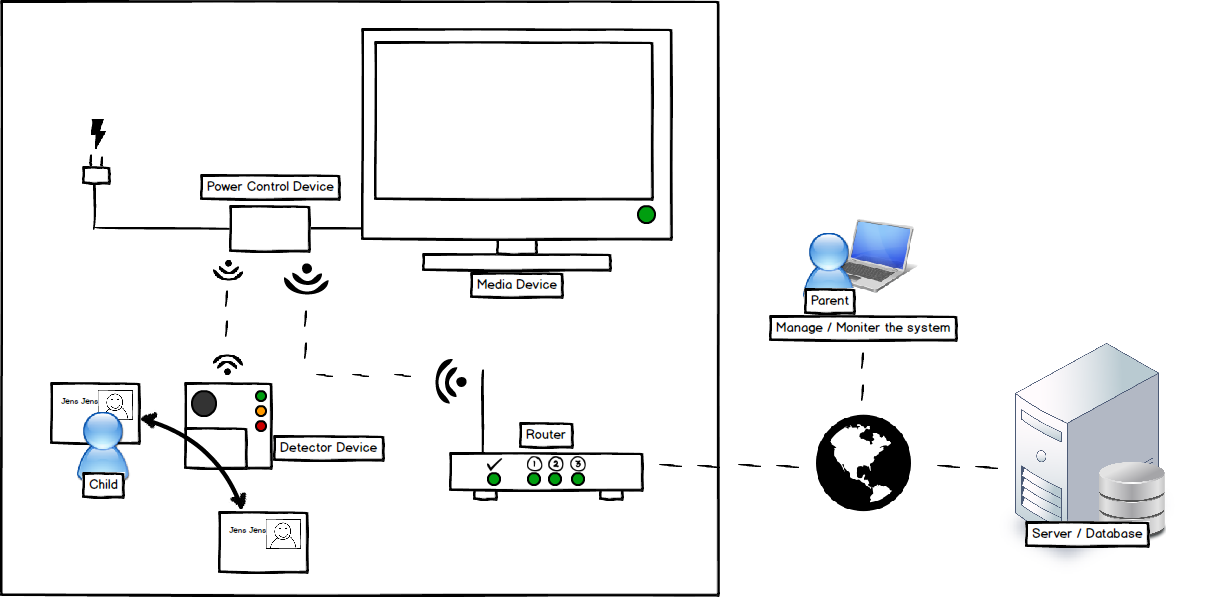
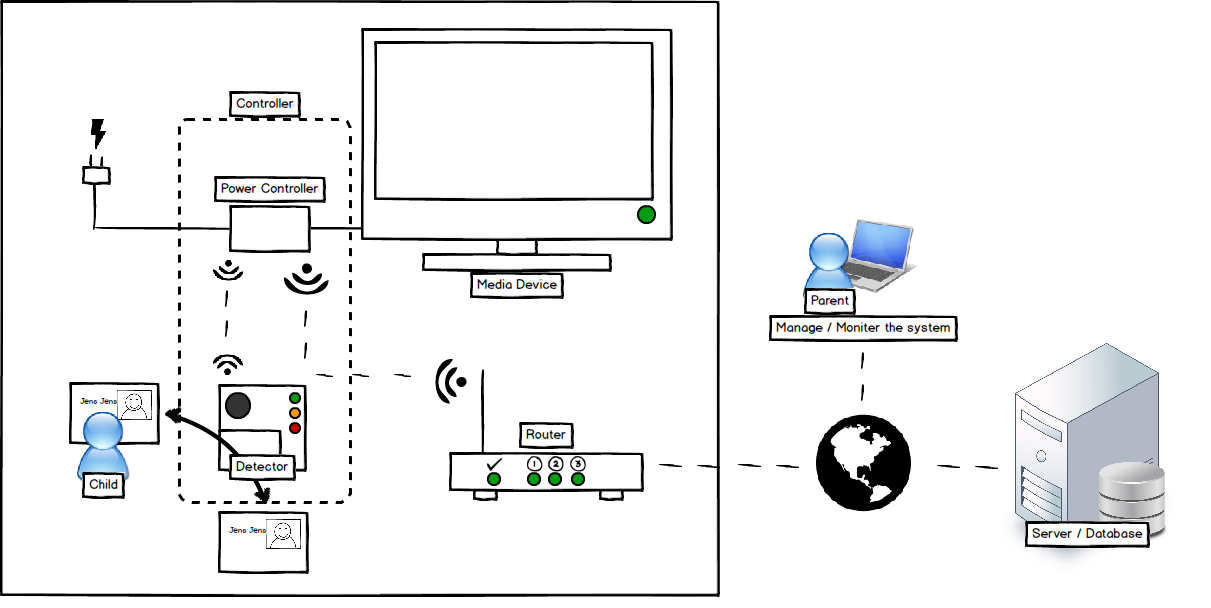
Rapport Ændringer

Changed region(s): [[0.0306, 0.625, 0.3361, 0.8438], [0.1528, 0.2812, 0.3055, 0.3438], [0.1833, 0.125, 0.275, 0.2188]]

diff --git a/report/text/systemOverviewDesign.tex b/report/text/systemOverviewDesign.tex
@@ -1,16 +1,16 @@
 \chapter{Overall System Design}
-In this chapter the challenges from the problem statement are looked upon and an overview of what will be needed to overcome these challenges will be formulated.
+In this chapter the challenges from the problem statement are looked upon, and an overview of what will be needed to overcome these challenges, will be formulated.
 
 %In this chapter we present the overall design of Media-Online Management(MOM). First we will present how we intend the users to use MOM. Then general concepts will be introduced which is an essential part of the system and will be mentioned several times hereafter. Thirdly the requirements of MOM will be explained in more detail. Finally the system architecture will be presented.    
 
 \section{Designing a solution}
-During the design of the system, deciding on what type of hardware was needed to accommodate the challenges of the problem was one of the first things to be considered.\\
-In order to know what hardware was needed, first we had to design an overall solution and designate functionality to components.\\
+During the design of the system was deciding, on what type of hardware was needed to accommodate the challenges of the problem, one of the first things to be considered.\\
+In order to know what hardware was needed, was a design of the overall solution and designate functionality to components needed.\\
 
 \subsection{Identify Unique Users}
 %How do we identify unique users in a subtle and child friendly way.
 The first challenge in the problem statement was: ''How do we identify unique users in a subtle and child friendly way.''.\\
-As mentioned in the analysis we thought of several different ways to do this, including fingerprints and NFC tags. Common for them all is that they require some sort of scanning device to be used. For the choice of hardware see chapter \ref{chap:hardware}\\
+As mentioned in the analysis was there several different ways to do this, including fingerprints and NFC tags. Common for them all is that they require some sort of scanning device to be used. For the choice of hardware see chapter \ref{chap:hardware}\\
 And in order to verify that the user is actually a user on this families system this scanner must have a way to contact some sort of database or overview of members. Which leads us to the next challenge.
 
 \subsection{Enforce Restrictions on Media Devices}
@@ -39,9 +39,9 @@ Next follows a section that puts the finishing touches on the system design and 
 \section{Media-Online Management} %name our system: temp name: Media-Online Management or MOM
 The Media-Online Management (MOM) is the name of the system which is our solution on the problem statement. To give an overview of the complete system a rich picture \citep{OOAD} have been made, see the figure \ref{fig:systemoverview}. The figure shows a home environment with a TV (media), computer and an internet connection, and it shows a server. 
 
-There are two main use patterns. The first is a parent who manage their MOM using the website from the PC to add, change or delete system settings. This is pictured in the bottom left-side corner in figure \ref{fig:systemoverview}. 
+There are two main use patterns. The first is a parent who manage their MOM system using the website from a PC to add, change or delete system settings. The settings will from the server that host the website changed in the database as seen in the right side of the figure \ref{fig:systemoverview}. 
 
-The second use pattern is pictured in the upper left corner of the figure. It is a child user who wants to use a media which in this case is the television. But to watch television it need power and its power source is blocked by the controller. So the child needs to scan his tag and then the controller sends a message to the server which then reply whether the television can be turned on or not. When the child is done he must scan again such that points can be withdrawn from his user profile. If the child does not have any points he cannot turn on the television nor can he turn it on if a rule or permission does not allow it. If a parent wants to watch television without being restricted in any way he can make a rule that gives him unlimited access, but he would still need to scan his tag before and after using the television. \fixme{Vil vi lave en lille evaluering om vi synes det er fair at forældrene også skal scanne?}
+The second use pattern is pictured in the left side of the figure. It is a child user who wants to use a media which in this case is the television. But to watch television it need power and its power source is blocked by the controller. So the child needs to scan his tag and then the controller sends a message to the server which then reply whether the television can be turned on or not. When the child is done he must scan again such that points can be withdrawn from his user profile. If the child does not have any points he cannot turn on the television nor can he turn it on if a rule or permission does not allow it. If a parent wants to watch television without being restricted in any way he can make a rule that gives him unlimited access, but he would still need to scan his tag before and after using the television. \fixme{Vil vi lave en lille evaluering om vi synes det er fair at forældrene også skal scanne?}
 
 \begin{figure}
 	\centering

diff --git a/report/draft.tex b/report/draft.tex
@@ -28,8 +28,6 @@
 	
 	%\part{Design}
 	
-
-	
 	% Part Analysis
 	\part{Analysis}
 	\input{text/newAnalysis.tex}
